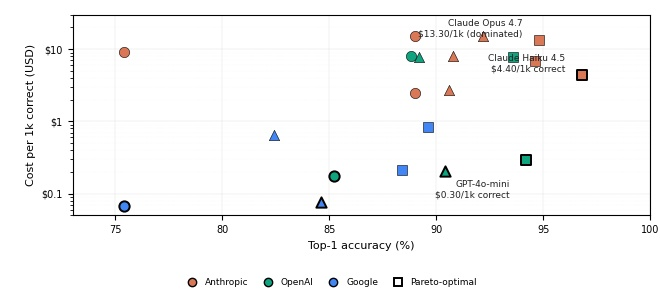
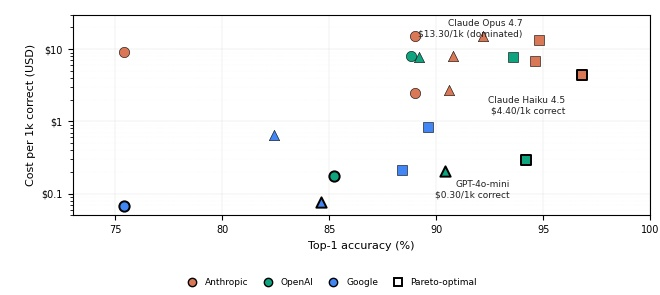
Move Claude Haiku 4.5 GA label below its marker to avoid overlap
The above-left placement put the "Claude Haiku 4.5 / $4.40/1k
correct" text directly over the Opus 4.7 marker and the cluster of
Sonnet markers near (90% accuracy, $5-10 cost). Moving the label
to below-left (offset (-12, -22)) places it in the empty band
around $1-2 cost at x=93-96 accuracy, clear of every other point
and label.

Changed region(s): [[0.7273, 0.1831, 0.8788, 0.2441], [0.7273, 0.3051, 0.8485, 0.3966]]

diff --git a/paper/figures/graphical_abstract.py b/paper/figures/graphical_abstract.py
@@ -63,7 +63,7 @@ INLINE_LABELS = {
     },
     ("claude-haiku-4-5", "constrained"): {
         "label": "Claude Haiku 4.5\n$4.40/1k correct",
-        "xytext_offset": (-12, +8),  # above-left
+        "xytext_offset": (-12, -22),  # below-left, into the empty region
         "ha": "right",
     },
     ("claude-opus-4-7", "constrained"): {
